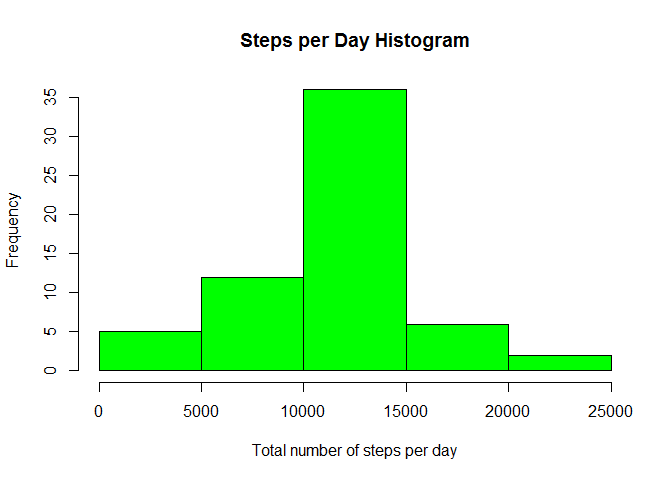
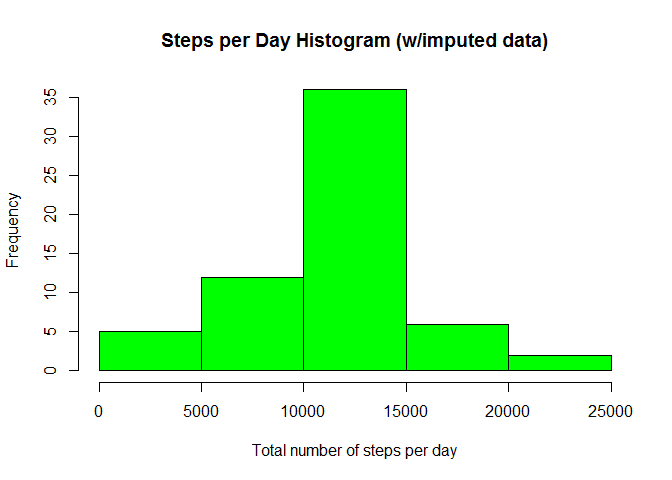
Added the weekday vs weekend steps per interval graph

Changed region(s): [[0.2188, 0.0625, 0.8125, 0.125]]

diff --git a/PA1.html b/PA1.html
@@ -69,6 +69,7 @@ img {
 <p>Load the appropriate libraries.</p>
 <pre class="r"><code>library(dplyr)
 library(knitr)
+library(lattice)
 opts_chunk$set(echo = TRUE, results = &quot;hide&quot;)</code></pre>
 <p>Read the data from the appropriate source file (“activity.csv”) in the current working directory.<br />The data-set contains observations for the 61 days; from 2012-10-01 to 2012-11-30.<br />Each day has 288 observations, one for each 5 minute interval, with the count of steps taken in the interval.<br />Each interval is identified with a label in the format ‘hhmm’, where ‘hh’ specifies the hour (0 to 23) and ‘mm’ specifies the minutes (0 to 55)</p>
 <pre class="r"><code># Read source data from appropriate file in the current working directory
@@ -89,8 +90,7 @@ rows_obs &lt;- nrow(data_obs)</code></pre>
 <h2>What is mean total number of steps taken per day?</h2>
 <p>The histogram of the total number of steps taken each day (ignoring the missing values in the dataset).</p>
 <pre class="r"><code># Summarize total number of steps for each day
-by_day &lt;- group_by(data_obs, date)
-steps_day &lt;- summarize(by_day, steps = sum(steps))
+steps_day &lt;- data_obs %&gt;% group_by(date) %&gt;% summarize(steps = sum(steps))
 
 # Generate histogram
 hist(steps_day$steps, col=&quot;red&quot;, main=&quot;Steps per Day Histogram&quot;, xlab=&quot;Total number of steps per day&quot;)</code></pre>
@@ -105,17 +105,16 @@ median_day &lt;- median(steps_day$steps)</code></pre>
 <h2>What is the average daily activity pattern?</h2>
 <p>This is a time-series plot of the average number of steps taken in each 5-minute interval, averaged across all days.</p>
 <pre class="r"><code># Calculate the average number of steps for each 5-minute interval across all days
-by_interval &lt;- group_by(data_obs, interval)
-steps_interval &lt;- summarize(by_interval, steps = mean(steps))
+steps_interval &lt;- data_obs %&gt;% group_by(interval) %&gt;% summarize(steps = mean(steps))
 
 # Generate line plot
 plot(steps_interval$interval, steps_interval$steps, type=&quot;l&quot;, main=&quot;Average Steps per 5-min Interval&quot;,
-     xlab=&quot;Interval (5-minute)&quot;, ylab=&quot;Number of Steps&quot;)</code></pre>
[1 lines of base64/hex data omitted]
+     xlab=&quot;5 minute Interval (hhmm)&quot;, ylab=&quot;Number of Steps&quot;)</code></pre>
[1 lines of base64/hex data omitted]
 <pre class="r"><code>#Find the interval with the maximum number of steps
 idx &lt;- which.max(steps_interval$steps)
-max_steps = steps_interval[idx, &quot;steps&quot;]
-interval = steps_interval[idx, &quot;interval&quot;]</code></pre>
+max_steps &lt;- steps_interval[idx, &quot;steps&quot;]
+interval  &lt;- steps_interval[idx, &quot;interval&quot;]</code></pre>
 <p>The 8.35 interval is the one with the maximum average number of steps (206.17).</p>
 <hr />
 </div>
@@ -123,23 +122,47 @@ interval = steps_interval[idx, &quot;interval&quot;]</code></pre>
 <h2>Imputing missing values</h2>
 <p>The original data set has 2304 observations with missing values; 13.11% of the total number of 5-minute intervals in the two month period.</p>
 <p>Will impute the missing values with the average steps for the corresponding 5-minute interval.</p>
-<pre class="r"><code># Keep only the date and interval columns of the observations with NAs,
-# then add the average steps for the corresponding 5-min interval 
+<pre class="r"><code># Keep only the date and interval columns of the observations with NA's,
+# then add a column with the average steps for the corresponding 5-min interval 
 data_imp &lt;- data_na %&gt;% select(date, interval) %&gt;% left_join(steps_interval, by = &quot;interval&quot;)
 
 # Bind the actual device readings and the imputed observations
 data_full &lt;- bind_rows(data_obs, data_imp)
 
 # Summarize total number of steps for each day
-by_day &lt;- group_by(data_full, date)
-steps_day &lt;- summarize(by_day, steps = sum(steps))
+steps1_day &lt;- data_full %&gt;% group_by(date) %&gt;% summarize(steps = sum(steps))
 
 # Generate histogram
-hist(steps_day$steps, col=&quot;green&quot;, main=&quot;Steps per Day Histogram&quot;, xlab=&quot;Total number of steps per day&quot;)</code></pre>
[1 lines of base64/hex data omitted]
+hist(steps1_day$steps, col=&quot;green&quot;, main=&quot;Steps per Day Histogram (w/imputed data)&quot;, xlab=&quot;Total number of steps per day&quot;)</code></pre>
[1 lines of base64/hex data omitted]
+<pre class="r"><code># New mean and median
+mean1_day &lt;- mean(steps1_day$steps)
+median1_day &lt;- median(steps1_day$steps)</code></pre>
+<p>Now we have observations for 61 days; initially we had observations for 53 days.</p>
+<p>The new mean number of steps per day is 10766.19, the new median is 10766.19; basically unchanged as expected since we imputed the average number of steps for each 5-min interval.</p>
+<hr />
 </div>
 <div id="are-there-differences-in-activity-patterns-between-weekdays-and-weekends" class="section level2">
 <h2>Are there differences in activity patterns between weekdays and weekends?</h2>
+<pre class="r"><code># Change Locale to obtain weekday names in English
+lct &lt;- Sys.getlocale(&quot;LC_TIME&quot;)
+Sys.setlocale(&quot;LC_TIME&quot;, &quot;C&quot;)
+
+# Create a data frame to map days to weekday or weekend factor
+day_map &lt;- data_frame(day = c(&quot;Mon&quot;, &quot;Tue&quot;, &quot;Wed&quot;, &quot;Thu&quot;, &quot;Fri&quot;, &quot;Sat&quot;, &quot;Sun&quot;),
+                      weekday = factor(c(&quot;weekday&quot;, &quot;weekday&quot;, &quot;weekday&quot;, &quot;weekday&quot;, &quot;weekday&quot;, &quot;weekend&quot;, &quot;weekend&quot;)))
+
+# Add day and weekday columns to the observations
+data_day &lt;- data_full %&gt;% mutate(day = weekdays(as.Date(date), abbreviate=TRUE)) %&gt;% left_join(day_map, by = &quot;day&quot;)
+
+# Group observations by interval and weekday, calculate the mean number of steps
+steps_interval_wd &lt;- data_day %&gt;% group_by(interval, weekday) %&gt;% summarize(steps = mean(steps))
+
+# Plot the results
+xyplot(steps ~ interval | weekday, data = steps_interval_wd, type=&quot;l&quot;, layout = c(1, 2), xlab=&quot;Interval&quot;, ylab=&quot;Average Steps&quot;)</code></pre>
[1 lines of base64/hex data omitted]
+<pre class="r"><code># Restore Locale
+Sys.setlocale(&quot;LC_TIME&quot;, lct)</code></pre>
 </div>
 
 

diff --git a/PA1.md b/PA1.md
@@ -8,6 +8,7 @@ Load the appropriate libraries.
 ```r
 library(dplyr)
 library(knitr)
+library(lattice)
 opts_chunk$set(echo = TRUE, results = "hide")
 ```
 
@@ -42,8 +43,7 @@ The histogram of the total number of steps taken each day (ignoring the missing 
 
 ```r
 # Summarize total number of steps for each day
-by_day <- group_by(data_obs, date)
-steps_day <- summarize(by_day, steps = sum(steps))
+steps_day <- data_obs %>% group_by(date) %>% summarize(steps = sum(steps))
 
 # Generate histogram
 hist(steps_day$steps, col="red", main="Steps per Day Histogram", xlab="Total number of steps per day")
@@ -68,12 +68,11 @@ This is a time-series plot of the average number of steps taken in each 5-minute
 
 ```r
 # Calculate the average number of steps for each 5-minute interval across all days
-by_interval <- group_by(data_obs, interval)
-steps_interval <- summarize(by_interval, steps = mean(steps))
+steps_interval <- data_obs %>% group_by(interval) %>% summarize(steps = mean(steps))
 
 # Generate line plot
 plot(steps_interval$interval, steps_interval$steps, type="l", main="Average Steps per 5-min Interval",
-     xlab="Interval (5-minute)", ylab="Number of Steps")
+     xlab="5 minute Interval (hhmm)", ylab="Number of Steps")
 ```
 
 ![](PA1_files/figure-html/step_3-1.png) 
@@ -81,8 +80,8 @@ plot(steps_interval$interval, steps_interval$steps, type="l", main="Average Step
 ```r
 #Find the interval with the maximum number of steps
 idx <- which.max(steps_interval$steps)
-max_steps = steps_interval[idx, "steps"]
-interval = steps_interval[idx, "interval"]
+max_steps <- steps_interval[idx, "steps"]
+interval  <- steps_interval[idx, "interval"]
 ```
 
 The 8.35 interval is the one with the maximum average number of steps (206.17).
@@ -98,23 +97,61 @@ Will impute the missing values with the average steps for the corresponding 5-mi
 
 
 ```r
-# Keep only the date and interval columns of the observations with NAs,
-# then add the average steps for the corresponding 5-min interval 
+# Keep only the date and interval columns of the observations with NA's,
+# then add a column with the average steps for the corresponding 5-min interval 
 data_imp <- data_na %>% select(date, interval) %>% left_join(steps_interval, by = "interval")
 
 # Bind the actual device readings and the imputed observations
 data_full <- bind_rows(data_obs, data_imp)
 
 # Summarize total number of steps for each day
-by_day <- group_by(data_full, date)
-steps_day <- summarize(by_day, steps = sum(steps))
+steps1_day <- data_full %>% group_by(date) %>% summarize(steps = sum(steps))
 
 # Generate histogram
-hist(steps_day$steps, col="green", main="Steps per Day Histogram", xlab="Total number of steps per day")
+hist(steps1_day$steps, col="green", main="Steps per Day Histogram (w/imputed data)", xlab="Total number of steps per day")
 ```
 
 ![](PA1_files/figure-html/step_4-1.png) 
 
+```r
+# New mean and median
+mean1_day <- mean(steps1_day$steps)
+median1_day <- median(steps1_day$steps)
+```
 
+Now we have observations for 61 days; initially we had observations for 53 days.
+
+The new mean number of steps per day is 10766.19, the new median is 10766.19;
+basically unchanged as expected since we imputed the average number of steps for each 5-min interval.
+
+*****
 
 ## Are there differences in activity patterns between weekdays and weekends?
+
+
+
+```r
+# Change Locale to obtain weekday names in English
+lct <- Sys.getlocale("LC_TIME")
+Sys.setlocale("LC_TIME", "C")
+
+# Create a data frame to map days to weekday or weekend factor
+day_map <- data_frame(day = c("Mon", "Tue", "Wed", "Thu", "Fri", "Sat", "Sun"),
+                      weekday = factor(c("weekday", "weekday", "weekday", "weekday", "weekday", "weekend", "weekend")))
+
+# Add day and weekday columns to the observations
+data_day <- data_full %>% mutate(day = weekdays(as.Date(date), abbreviate=TRUE)) %>% left_join(day_map, by = "day")
+
+# Group observations by interval and weekday, calculate the mean number of steps
+steps_interval_wd <- data_day %>% group_by(interval, weekday) %>% summarize(steps = mean(steps))
+
+# Plot the results
+xyplot(steps ~ interval | weekday, data = steps_interval_wd, type="l", layout = c(1, 2), xlab="Interval", ylab="Average Steps")
+```
+
+![](PA1_files/figure-html/step_5-1.png) 
+
+```r
+# Restore Locale
+Sys.setlocale("LC_TIME", lct)
+```
